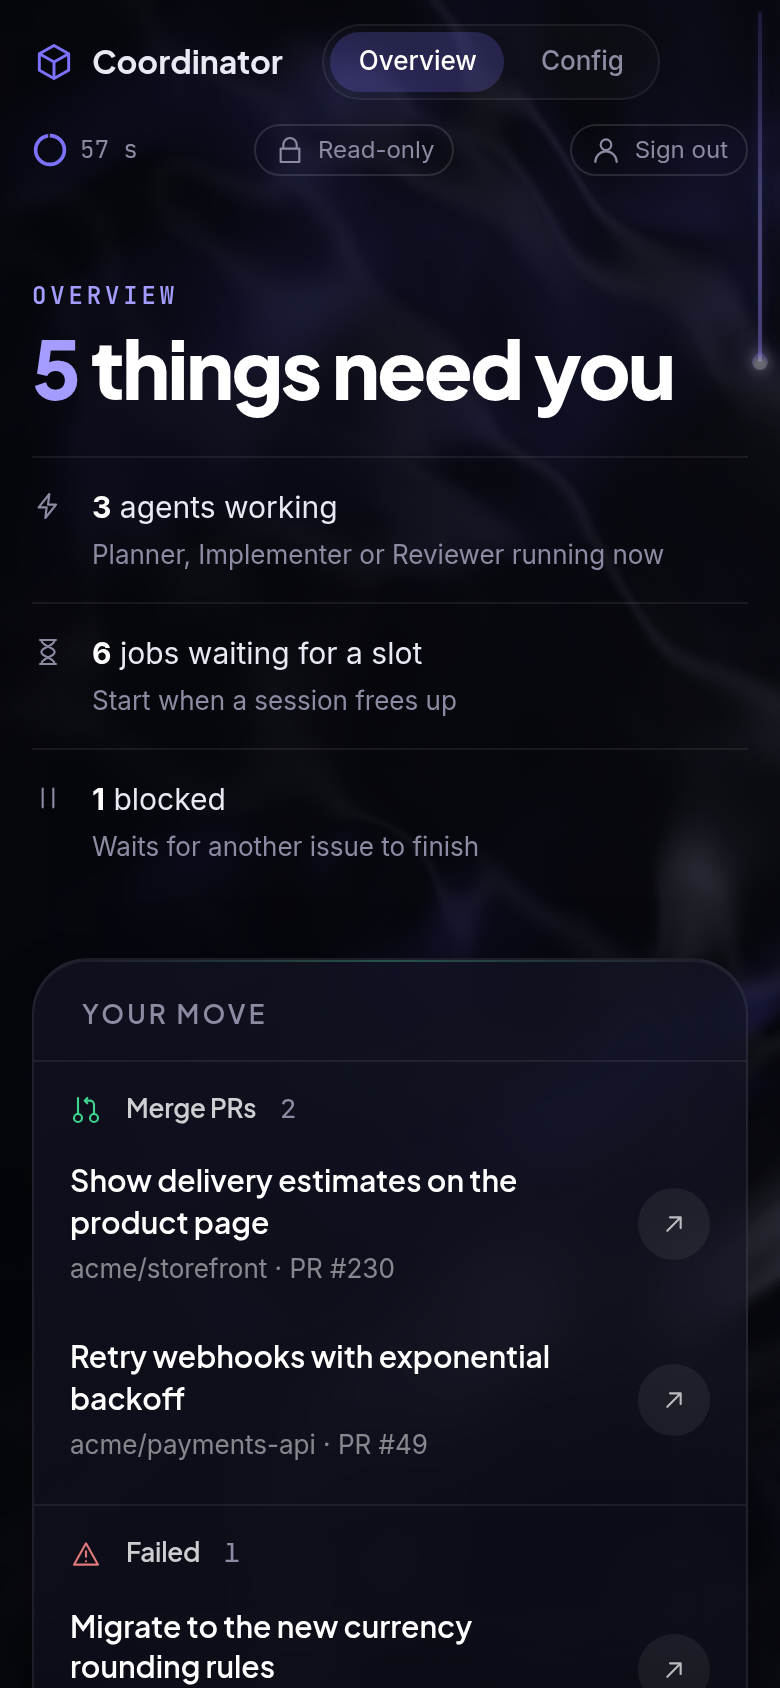
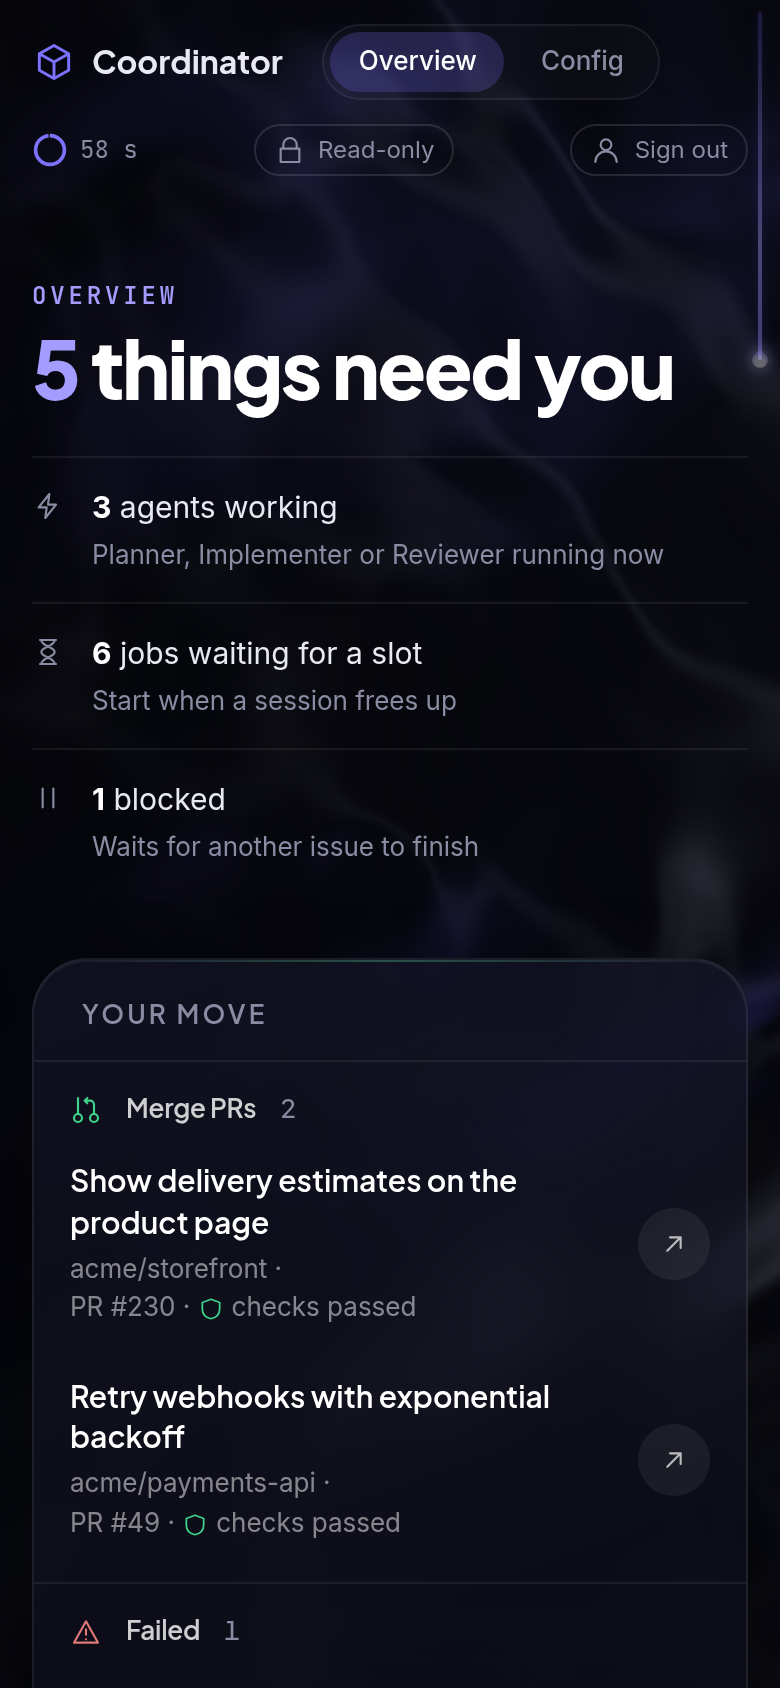
fix: a ready PR keeps its checks fact on a phone (#111, REQ-003-32)
Review finding 1: the checks fact was only part of the hint, which a phone
hides. It is now its own fact with a green shield, shown at every width;
only the hint ("Reviewed: merge it") hides on a phone. "PR #N" no longer
breaks across lines at 360px.

Claude-Session: https://claude.ai/code/session_0137xE8Bc1qZHpwLV1TtPKAZ

diff --git a/test/dashboard-html.test.ts b/test/dashboard-html.test.ts
@@ -251,12 +251,31 @@ describe("dashboard html", () => {
     expect(summary).toMatch(/data-move="approve"[\s\S]*?<h3[^>]*>[\s\S]*?Approve plans[\s\S]*?>1<[\s\S]*?<\/h3>/);
     const pr = summary.slice(summary.indexOf('href="https://github.com/octo/app/pull/70"'));
     expect(pr).toMatch(
-      /^[^>]*>[\s\S]*?Fix the login form[\s\S]*?octo\/app[\s\S]*?PR #70[\s\S]*?Reviewed, checks passed/,
+      /^[^>]*>[\s\S]*?Fix the login form[\s\S]*?octo\/app[\s\S]*?PR #70[\s\S]*?checks passed[\s\S]*?Reviewed: merge it/,
     );
     expect(summary).toContain('href="https://github.com/octo/app/issues/6"');
     expect(summary).toContain("Assessment ready: approve or reply");
     // On a phone the hint is hidden and rows are not indented; from sm on they line up with the group name.
-    expect(summary).toMatch(/<span class="hidden sm:inline"> · Reviewed, checks passed<\/span>/);
+    expect(summary).toMatch(/<span class="hidden sm:inline"> · Assessment ready: approve or reply<\/span>/);
+  });
+
+  test("REQ-003-32 a ready PR keeps its checks fact at every width, with a green shield; only the hint hides on a phone", () => {
+    const summary = summaryOf(overview());
+    const row = summary.slice(
+      summary.indexOf('href="https://github.com/octo/app/pull/70"'),
+      summary.indexOf("</a>", summary.indexOf('href="https://github.com/octo/app/pull/70"')),
+    );
+    // The checks fact is not inside the hidden hint, and its shield is green (REQ-003-17).
+    const fact = row.match(
+      /<span class="([^"]*)">( · )?<svg class="([^"]*)"[^>]*><path[^>]*><\/path><\/svg>checks passed<\/span>/,
+    );
+    expect(fact).not.toBeNull();
+    expect(fact?.[1]?.split(" ")).not.toContain("hidden");
+    expect(fact?.[3]?.split(" ")).toContain("text-ok");
+    expect(row).toContain('<span class="hidden sm:inline"> · Reviewed: merge it</span>');
+    // Issue rows have no checks fact.
+    const issue = summary.slice(summary.indexOf('href="https://github.com/octo/app/issues/6"'));
+    expect(issue.slice(0, issue.indexOf("</a>"))).not.toContain("checks");
   });
 
   test("REQ-003-32 every row has the ready-PR hover: the green accent line, a green wash, a nudge and the arrow turning green", () => {

diff --git a/src/dashboard/view.ts b/src/dashboard/view.ts
@@ -43,7 +43,7 @@ const EVENT_TONES: Record<EventKind, Tone> = {
  * come from the merge filter instead) and the hint every row of the group shows.
  */
 const MOVES: { kind: MoveKind; title: string; phase?: IssueState; hint: string }[] = [
-  { kind: "merge", title: "Merge PRs", hint: "Reviewed" },
+  { kind: "merge", title: "Merge PRs", hint: "Reviewed: merge it" },
   { kind: "failed", title: "Failed", phase: "failed", hint: "The Coordinator gave up; see its comment" },
   { kind: "questions", title: "Answer questions", phase: "needs-refinement", hint: "The Planner has questions" },
   { kind: "approve", title: "Approve plans", phase: "proposed", hint: "Assessment ready: approve or reply" },
@@ -127,6 +127,8 @@ export interface MoveItem extends IssueLink {
   repo: string;
   /** `PR #70` or `#5`. */
   label: string;
+  /** A ready PR's checks, `checks passed` or `no checks`, shown at every width; null for an issue. */
+  checks: string | null;
   /** What the Owner is to do, shown on wider screens. */
   hint: string;
 }
@@ -389,11 +391,20 @@ export function dashboardView(
             title: p.title,
             url: p.url,
             label: `PR #${p.number}`,
-            hint: `${hint}, ${p.checks === "none" ? "no checks" : "checks passed"}`,
+            checks: p.checks === "none" ? "no checks" : "checks passed",
+            hint,
           }))
         : issues
             .filter((i) => i.phase === phase)
-            .map((i) => ({ repo: i.repo, number: i.number, title: i.title, url: i.url, label: `#${i.number}`, hint })),
+            .map((i) => ({
+              repo: i.repo,
+              number: i.number,
+              title: i.title,
+              url: i.url,
+              label: `#${i.number}`,
+              checks: null,
+              hint,
+            })),
   })).filter((g) => g.items.length > 0);
 
   const summary: SummaryView = {

diff --git a/src/dashboard/html.tsx b/src/dashboard/html.tsx
@@ -74,7 +74,8 @@ function PrDetails({ p }: { p: PullView }) {
 /**
  * A row of Your move (REQ-003-32), the hover of the ready PRs (#87): the green accent line grows in
  * at the left edge, a green wash, the text nudges, and the grey arrow circle turns green. From sm on
- * the row lines up with its group's name; on a phone it isn't indented and the hint is hidden.
+ * the row lines up with its group's name; on a phone it isn't indented and the hint is hidden, but a
+ * ready PR keeps its checks fact.
  */
 const MoveRow = ({ m }: { m: MoveItem }) => (
   <li>
@@ -88,7 +89,14 @@ const MoveRow = ({ m }: { m: MoveItem }) => (
           {m.title}
         </span>
         <span className="mt-1 text-[13px] text-white/50 wrap-anywhere">
-          {m.repo} · {m.label}
+          {m.repo} · <span className="whitespace-nowrap">{m.label}</span>
+          {m.checks && (
+            <span className="whitespace-nowrap">
+              {" · "}
+              <Icon name="shield" className="mr-1 size-[13px] text-ok" />
+              {m.checks}
+            </span>
+          )}
           <span className="hidden sm:inline"> · {m.hint}</span>
         </span>
       </span>

diff --git a/test/dashboard-view.test.ts b/test/dashboard-view.test.ts
@@ -534,7 +534,8 @@ describe("dashboard view", () => {
       title: "Fix login",
       url: "https://github.com/octo/app/pull/70",
       label: "PR #70",
-      hint: "Reviewed, no checks",
+      checks: "no checks",
+      hint: "Reviewed: merge it",
     });
     expect(v.yourMove[1]?.items[0]).toEqual({
       repo: "octo/app",
@@ -542,10 +543,11 @@ describe("dashboard view", () => {
       title: "Broken thing",
       url: "https://github.com/octo/app/issues/5",
       label: "#5",
+      checks: null,
       hint: "The Coordinator gave up; see its comment",
     });
     expect(v.yourMove.map((g) => g.items[0]?.hint)).toEqual([
-      "Reviewed, no checks",
+      "Reviewed: merge it",
       "The Coordinator gave up; see its comment",
       "The Planner has questions",
       "Assessment ready: approve or reply",

diff --git a/docs/specs/003-dashboard/spec.md b/docs/specs/003-dashboard/spec.md
@@ -279,7 +279,8 @@ The Owner wants to see at a glance, also on a phone, what the Coordinator is doi
 - **When** the Overview is shown
 - **Then** a "Your move" panel next to the headline (REQ-003-11) lists them in groups, in this order: Merge PRs, Failed, Answer questions, Approve plans, Close?; a group with nothing in it is left out
 - **And** each group has a bare icon (no circle or box around it), its name and its count, and the groups are split by a plain hairline
-- **And** each row shows the title, the repository and the number (`PR #N` for a PR), plus a hint on what to do from the `sm` width on (e.g. "Reviewed, checks passed"), and links to the PR or issue on GitHub; on a phone rows are not indented and the hint is hidden
+- **And** each row shows the title, the repository and the number (`PR #N` for a PR), plus a hint on what to do from the `sm` width on (e.g. "Reviewed: merge it"), and links to the PR or issue on GitHub; on a phone rows are not indented and the hint is hidden
+- **And** a ready PR's row shows its checks ("checks passed" or "no checks", with a green shield) at every width, also on a phone
 - **And** hovering a row grows the green accent line in at its left edge, washes it green, nudges its text and turns the grey arrow circle green
 - **And** with nothing to do it says "Nothing needs you" and when items will show up
 - **And** it lists all repositories: the `?repo=` filter (REQ-003-13) narrows only the Pipeline and Recent
@@ -339,5 +340,5 @@ The Owner wants to see at a glance, also on a phone, what the Coordinator is doi
 | REQ-003-29 | `dashboard GitHub sign-in > REQ-003-29 …` (4 tests: sent to GitHub with a random state in a Lax cookie, 401 for fetches and assets, unreadable or empty client secret refuses the start, 503 until set up); `config > REQ-003-29 …` (on by default, client id and secret file together, or `false`); `dashboard view > REQ-003-29 …` (on, off, not set up)                                                                                                                                                                                                                                                                                                                                                 | pass; with a real OAuth App: open                                                                                  |
 | REQ-003-30 | `dashboard GitHub sign-in > REQ-003-29 / REQ-003-30 the Owner signs in …` and `REQ-003-30 …` (7 tests: another user 403, wrong or missing state 400, refused code 400 and GitHub out of reach 502, tampered/expired/foreign session, the key generated once (0600), a restart keeps the session unless `owner.id` changed, Secure behind HTTPS)                                                                                                                                                                                                                                                                                                                                                            | pass; with a real OAuth App: open                                                                                  |
 | REQ-003-31 | `dashboard GitHub sign-in > REQ-003-31 …` (2 tests: Sign out ends the session and refuses a cross-site POST, the token next to the sign-in as Bearer, `?token=` and its cookie, also before the sign-in is set up); `dashboard html > REQ-003-31 …` (the Sign out form in the header); `config > REQ-003-31 …` (off loopback a token or the sign-in)                                                                                                                                                                                                                                                                                                                                                       | pass                                                                                                               |
-| REQ-003-32 | `dashboard view > REQ-003-32 …` (4 tests: the ready-PR filter, a Bundle only when all its issues are reviewed, groups in order with rows, labels and hints, empty groups left out); `dashboard html > REQ-003-32 …` (4 tests: groups with icon, name and count and linked rows with hint hidden on a phone; every row has the green accent line, wash, nudge and arrow hover; tones and hairlines; the empty state); `dashboard server > REQ-003-13 ?repo= narrows the Pipeline` (Your move stays unfiltered); in Chrome: desktop and phone screenshots with the first row hovered (forced `:hover`), no horizontal scroll at 360px (#111)                                                                 | pass; the hover in a real browser: open                                                                            |
+| REQ-003-32 | `dashboard view > REQ-003-32 …` (4 tests: the ready-PR filter, a Bundle only when all its issues are reviewed, groups in order with rows, labels and hints, empty groups left out); `dashboard html > REQ-003-32 …` (5 tests: groups with icon, name and count and linked rows with hint hidden on a phone; a ready PR's checks fact at every width with a green shield; every row has the green accent line, wash, nudge and arrow hover; tones and hairlines; the empty state); `dashboard server > REQ-003-13 ?repo= narrows the Pipeline` (Your move stays unfiltered); in Chrome: desktop and phone screenshots with the first row hovered (forced `:hover`), no horizontal scroll at 360px (#111)    | pass; the hover in a real browser: open                                                                            |
 | Acceptance | #72: desktop, phone and Config screenshots from fixture data before and after the React migration look the same; manual: open it on a phone over Tailscale and on desktop, compare with the mockup in #41, screenshots on the PR; without a `dashboard` block, an SSH tunnel to `127.0.0.1:8080` loads the page                                                                                                                                                                                                                                                                                                                                                                                            | #87: desktop and phone screenshots from fixture data match the mockup; on a real phone and the hover effects: open |
